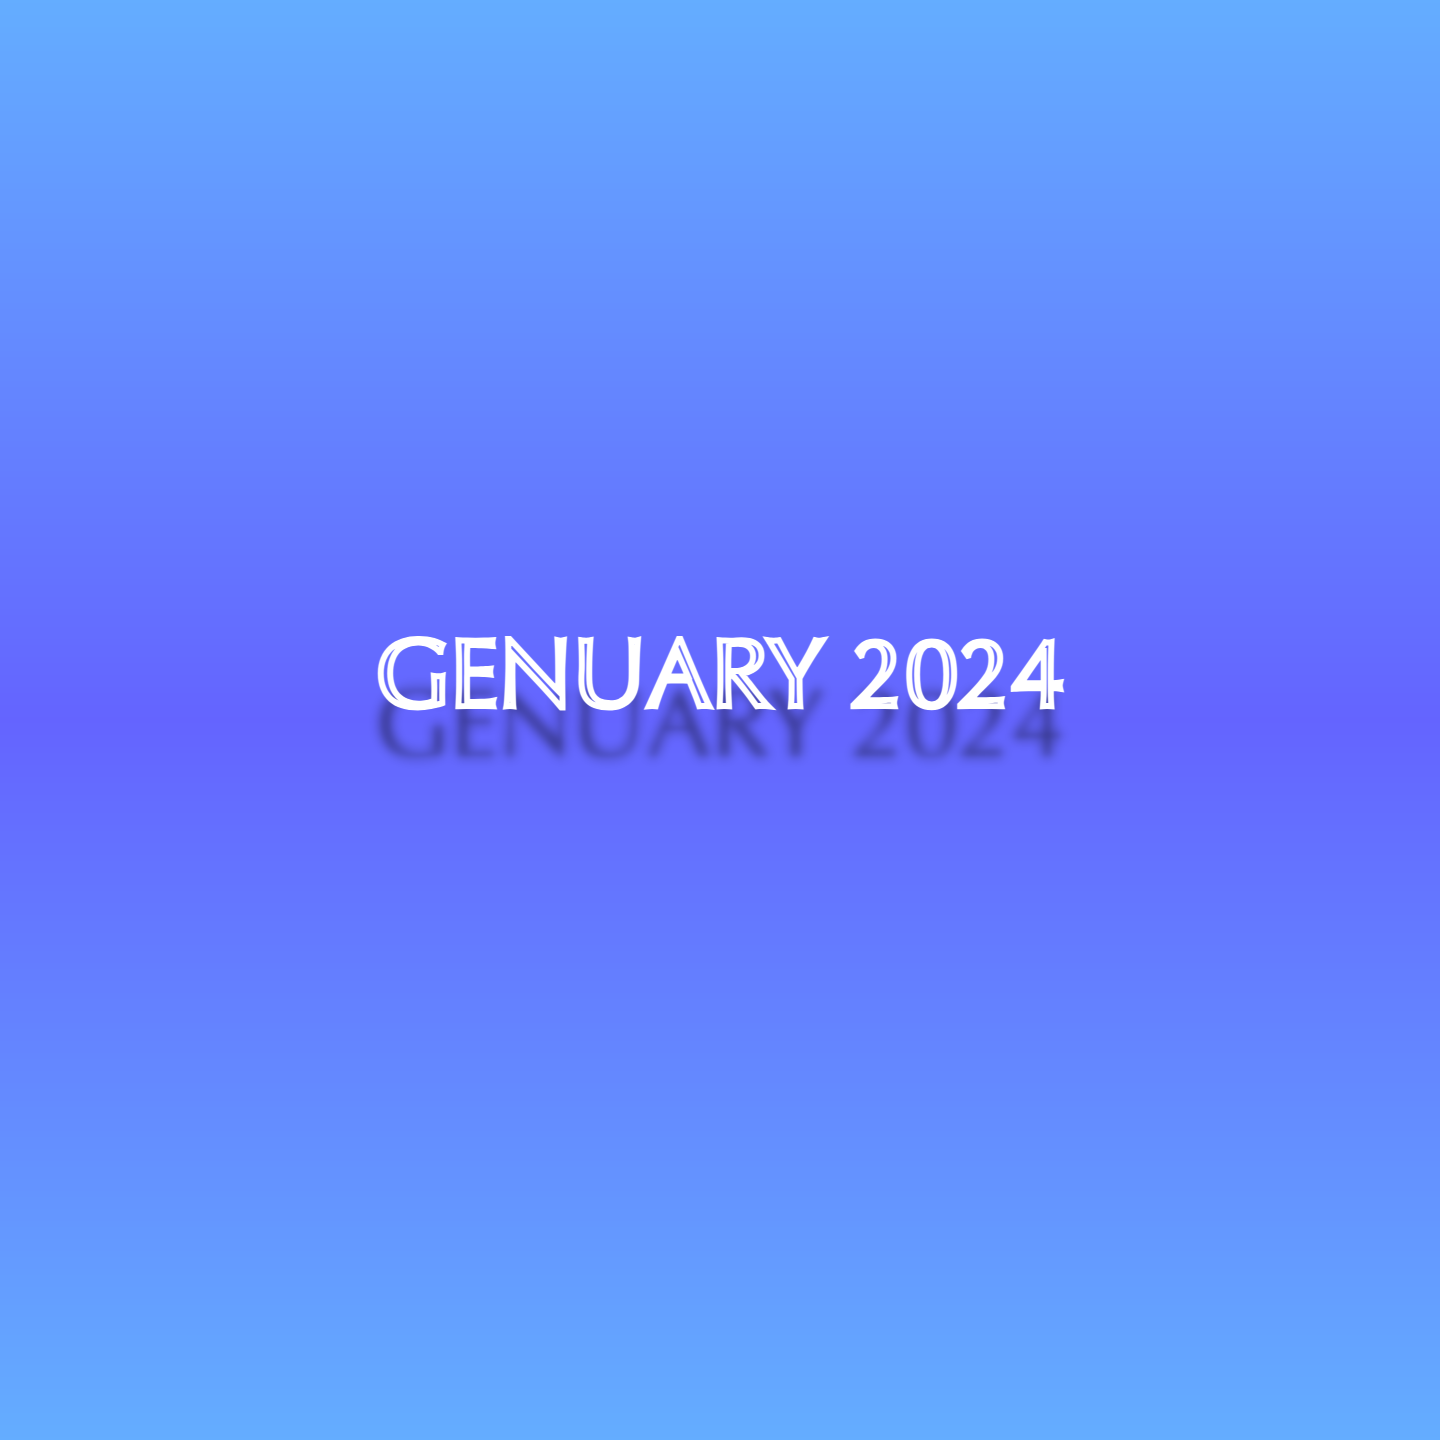
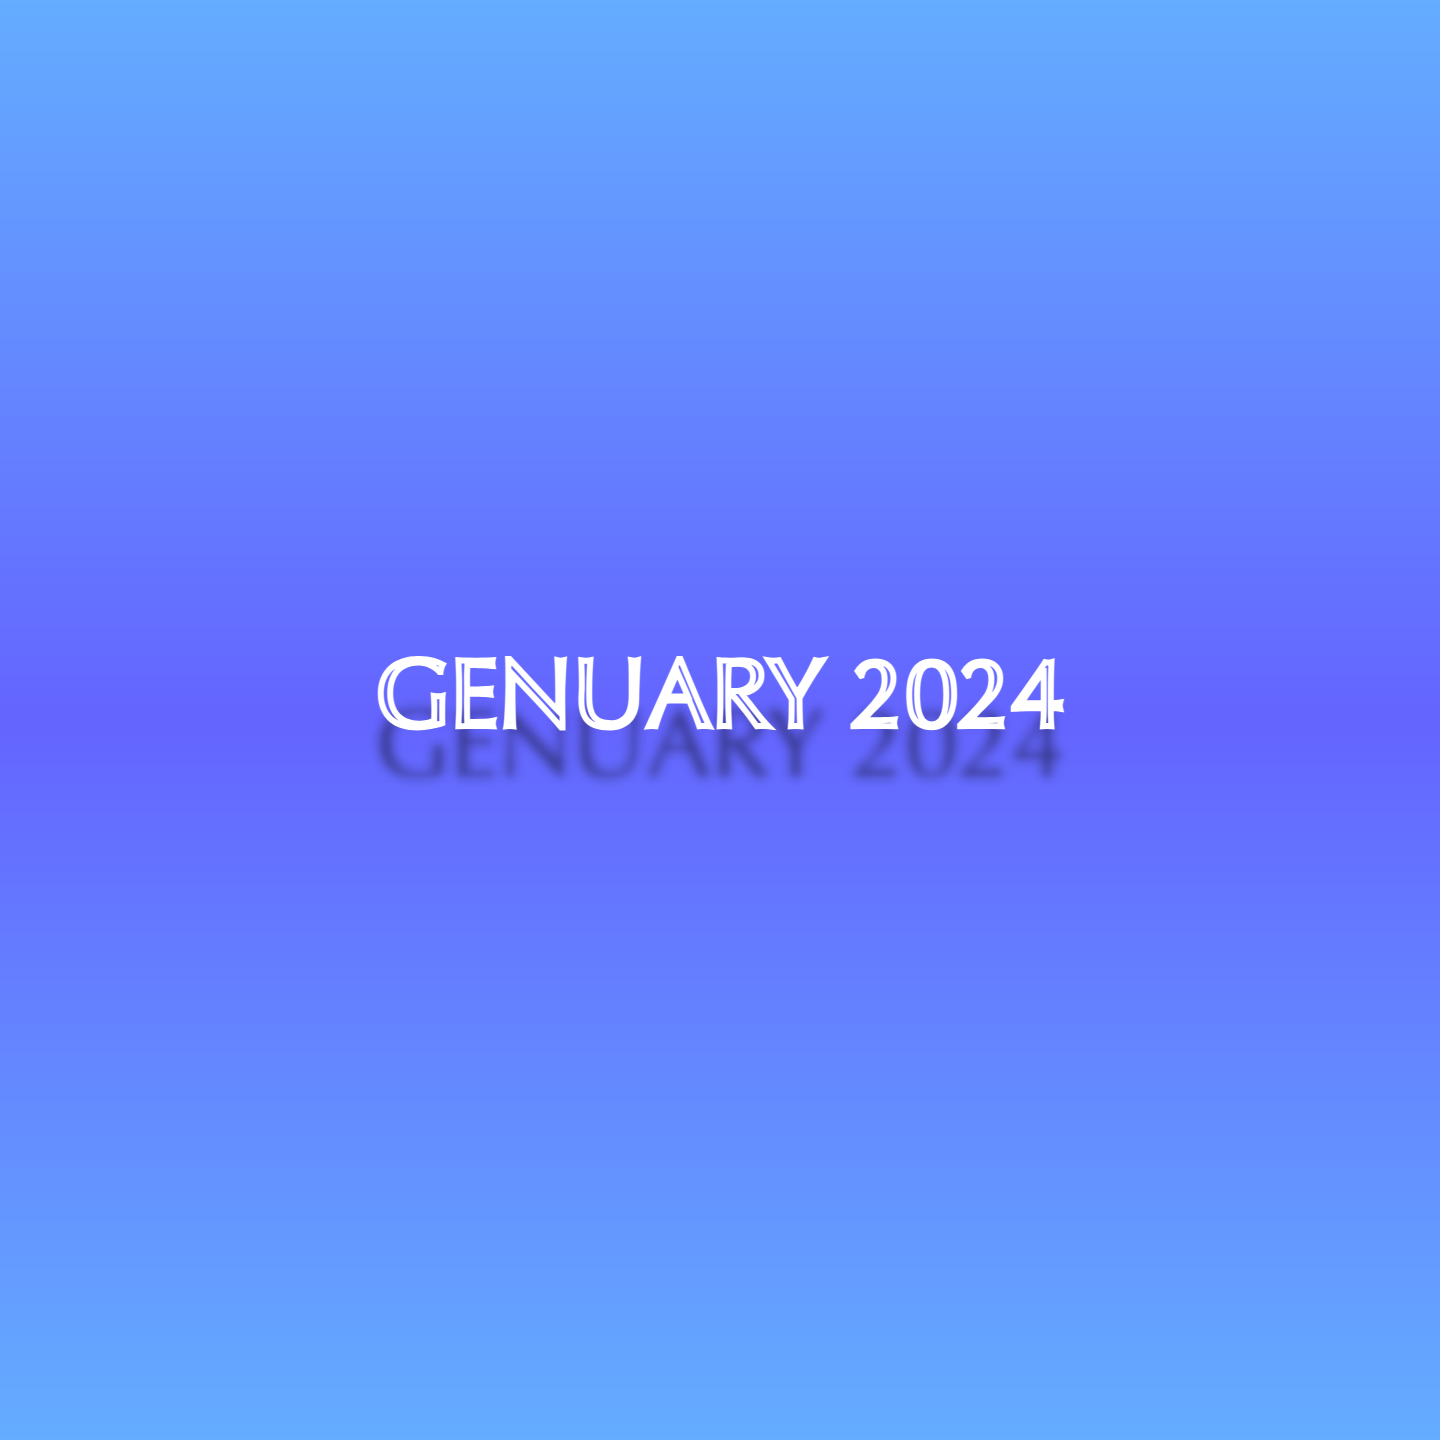
modify height 20->10

Changed region(s): [[0.25, 0.4375, 0.75, 0.5625]]

diff --git a/public/programs/20240120.rb b/public/programs/20240120.rb
@@ -11,7 +11,7 @@ def setup
   @textGraphic.textSize(48)
   @textGraphic.textFont(@font)
   @textGraphic.textAlign(CENTER, CENTER)
-  @textGraphic.text(@text, width / 2, height / 2 - 20)
+  @textGraphic.text(@text, width / 2, height / 2 - 10)
 end
 
 def draw
@@ -28,7 +28,7 @@ def main_text
   textSize(48)
   textFont(@font)
   textAlign(CENTER, CENTER)
-  text(@text, width / 2, height / 2 - 20)
+  text(@text, width / 2, height / 2 - 10)
 end
 
 def draw_background
